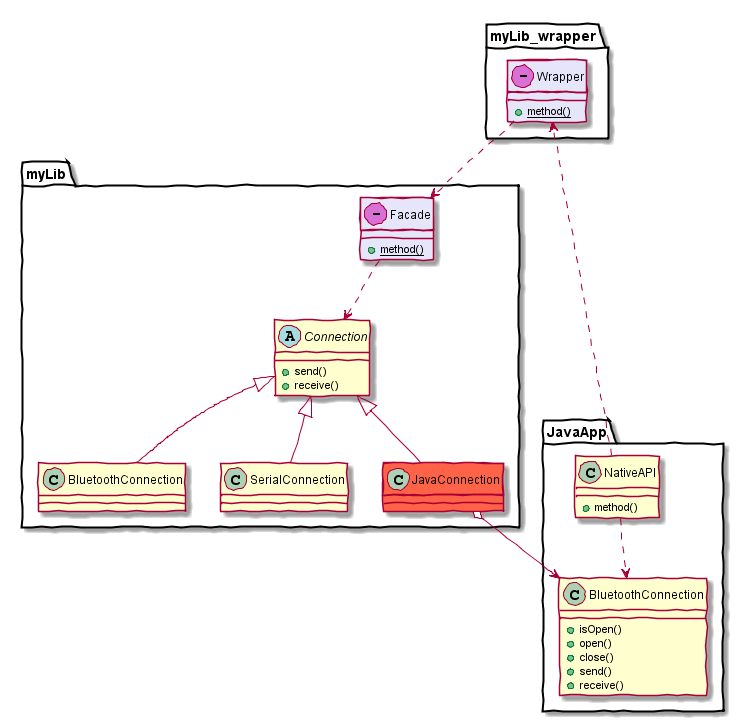
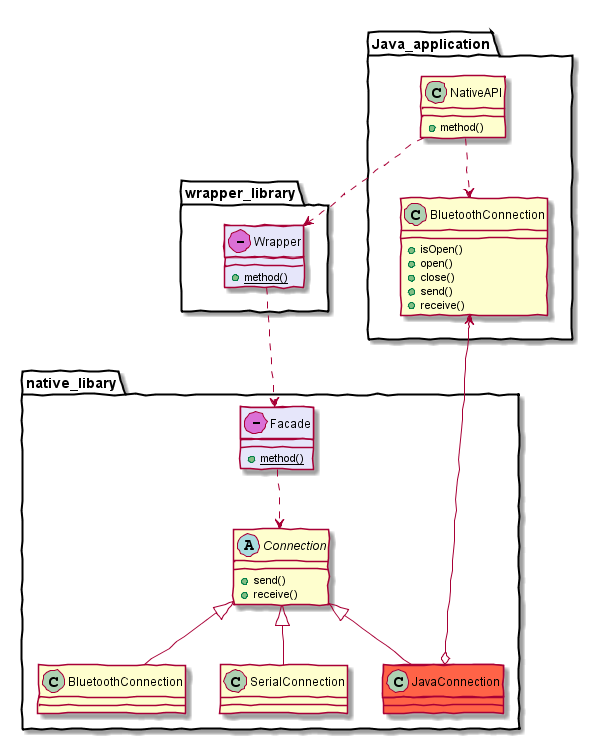
bluetooth-cpp-android: publication

diff --git a/cpp/bluetooth-cpp-android.html b/cpp/bluetooth-cpp-android.html
@@ -9,40 +9,40 @@
 <p class="page-path"><a href="../index.html#bluetooth-cpp-android">risorse</a> | bluetooth c++ e android</p>
 <h1>Bluetooth, C++ e Android</h1>
 <p>Nel corso degli anni ho sviluppato un applicativo C++/Win32 per il controllo di uno strumento di misura: il programma si connette allo strumento via Bluetooth e scarica i dati acquisiti attraverso un protocollo di comunicazione binario ideato dal costruttore del multimetro. I dati raccolti vengono presentati all'utente e archiviati per consentire di condurre analisi a posteriori di varia natura.</p>
-<p>Poco più di un anno fa ho effettuato uno studio di fattibilità circa il <em>porting</em> dell'applicativo su dispositivo mobile, nella fattispecie un terminale Android. Raccolgo qui qualche appunto circa le difficoltà incontrate nell'accedere al trasmettitore Bluetooth di un dispositivo Android da una libreria nativa C++.</p>
+<p>Poco più di un anno fa ho effettuato uno studio di fattibilità del <em>porting</em> dell'applicativo su dispositivo mobile, nella fattispecie un terminale Android. Raccolgo qui qualche appunto circa le difficoltà incontrate nell'accedere al trasmettitore Bluetooth di un dispositivo Android da una libreria nativa C++.</p>
 <h2>Premessa</h2>
-<p>Considerata la complessità dell'implementazione del protocollo di comunicazione, il presupposto iniziale è stato quello di riutilizzare il codice C++ di acquisizione dei dati, lasciando all'applicativo Java la responsabilità della loro visualizzazione e memorizzazione. La reimplementazione del protocollo di comunicazione in Java è stato escluso a priori.</p>
+<p>Considerata la complessità dell'implementazione del protocollo di comunicazione, ho scelto di riutilizzare il codice C++ di acquisizione dei dati, lasciando all'applicativo Java la responsabilità della loro visualizzazione e memorizzazione. La reimplementazione del protocollo di comunicazione in Java è stata esclusa a priori.</p>
 <h2>Interfaccia Java/C++</h2>
-<p>Ho prima di tutto riorganizzato il codice C++ di comunicazione ed elaborazione dei dati in una libreria dinamica <span class="library">myLib</span>, che successivamente ho portato in ambiente Linux.</p>
+<p>Ho prima di tutto riorganizzato il codice C++ di comunicazione ed elaborazione dei dati in una libreria dinamica che successivamente ho portato in ambiente Linux.</p>
 <p class="note">Il porting del codice C++ da Windows a Linux è stata un'esperienza particolarmente istruttiva. Per quanto pensassi di aver sviluppato codice tutto sommato indipendente dalla piattaforma utilizzata (Win32), l'operazione ha richiesto un discreto numero di interventi correttivi. Altrettanto formativo è stato il sottoporre lo stesso sorgente a compilatori diversi (VC su Windows, GCC/Clang su Linux): le sorprese non sono mancate!</p>
 <p>In seconda istanza ho definito un'interfaccia C per agevolare l'accesso alle funzionalità implementate dalla libreria <em>nativa</em> (l'originale, implementata in C/C++); per comodità ho scelto di utilizzare i tipi primitivi del linguaggio C come parametri di ingresso/uscita, optando invece per l'utilizzo di stringhe JSON come valore di ritorno:</p>
 <pre class="code">
 extern "C"
 const char* method(int value);
 </pre>
-<p class="illustration">Esempio di API C esposta dalla libreria nativa <span class="library">myLib</span></p>
+<p class="illustration">Esempio di API C esposta dalla libreria nativa</p>
 <p>L'accesso all'API nativa da parte dell'applicativo Java avviene attraverso una classe dedicata:</p>
 <pre class="code">
 public class NativeAPI {
   static {
-    System.loadLibrary("myLib_wrapper");
+    System.loadLibrary("LIB-NAME_wrapper");
   }
   public native String method(int aValue);
   ...
 }
 </pre>
-<p>Come si può dedurre dal frammento di codice, l'applicazione Java accede alla libreria nativa attraverso una libreria ausiliaria, denominata <span class="library">myLib_wrapper</span>, che si occupa di effettuare il <em>marshalling</em> dei parametri di ingresso e del valore di ritorno, oltre ovviamente dell'invocazione del metodo nativo:</p>
+<p>Come si può dedurre dal frammento di codice, l'applicazione Java accede alla libreria nativa attraverso una libreria ausiliaria, denominata <span class="library">*_wrapper</span>, che si occupa di effettuare il <em>marshalling</em> dei parametri di ingresso e del valore di ritorno, oltre ovviamente dell'invocazione del metodo nativo:</p>
 <pre class="code">
 extern "C"
-JNIEXPORT jstring JNICALL Java_xx_company_product_MyLib_method(
+JNIEXPORT jstring JNICALL Java_xx_company_product_LIB-NAME_method(
   JNIEnv* env, jobject thiz, jint value) {
   return env->NewStringUTF(method(value));
 }
 </pre>
 <p class="illustration">Esempio di <em>wrapping</em> dell'API nativa <span class="code">method</span> &mdash; notare la decorazione del metodo</p>
 <h2>Accesso al Bluetooth</h2>
-<p>La compilazione della libreria nativa <span class="library">myLib</span> con l'NDK per Android non va a buon fine, perché il Bluetooth su quella piattaforma non è (ancora?) disponibile &mdash; cfr. <a href="https://developer.android.com/ndk/guides/stable_apis.html">Android NDK Native APIs</a>. Il problema è noto, e il suggerimento più comune è quello di fornire alla libreria nativa un accesso al Bluetooth attraverso un oggetto Java.</p>
-<p>Fortunatamente il codice C++ originale già astraeva dalla tipologia di connessione: il modulo che implementa il protocollo di comunicazione infatti, dovendo supportare la doppia modalità di connessione Bluetooth/seriale, già basava il suo funzionamento su una classe astratta denominata <span class="code">Connection</span>. Estenderlo per supportare un terzo tipo di connessione non avrebbe dovuto rivelarsi troppo difficile:</p>
+<p>La compilazione della libreria nativa con l'NDK per Android non va a buon fine, perché il Bluetooth su quella piattaforma non è (ancora?) disponibile &mdash; cfr. <a href="https://developer.android.com/ndk/guides/stable_apis.html">Android NDK Native APIs</a>. Il problema è noto, e il suggerimento più comune è quello di fornire alla libreria nativa un accesso al Bluetooth attraverso un oggetto Java.</p>
+<p>Fortunatamente il codice C++ originale già astrae dalla tipologia di connessione: il modulo che implementa il protocollo di comunicazione infatti, dovendo supportare la doppia modalità di connessione Bluetooth/seriale (la seconda utilizzata come backup della prima nelle sessioni di debug del firmware), fa uso di una classe astratta <span class="code">Connection</span>. Estenderlo per supportare un terzo tipo di connessione è stato così relativamente semplice:</p>
 <pre class="code">
 class Connection {
 public:
@@ -75,17 +75,17 @@ public class BluetoothConnection {
 <p class="illustration">La classe Java per l'accesso al Bluetooth</p>
 <p>Occorre a questo punto arricchire l'API Java/C++ per consentire all'applicativo di passare alla libreria nativa sottostante un'istanza di questa classe:</p>
 <pre class="code">
-// myLib
+// native library
 extern "C" {
   const char* method(int value);
   <strong>const char* initialize(JNIEnv* env, jobject connection);</strong>
 }
 </pre>
 <pre class="code">
-// Java
+// Java application
 public class NativeAPI {
   static {
-    System.loadLibrary("myLib_wrapper");
+    System.loadLibrary("LIB-NAME_wrapper");
   }
   public native String method(int aValue);
   <strong>public native String initialize(BluetoothConnection connection);</strong>
@@ -93,19 +93,19 @@ public class NativeAPI {
 }
 </pre>
 <pre class="code">
-// myLib_wrapper
+// native library wrapper
 extern "C" {
-  JNIEXPORT jstring JNICALL Java_xx_company_product_MyLib_method(
+  JNIEXPORT jstring JNICALL Java_xx_company_product_LIB-NAME_method(
     JNIEnv* env, jobject thiz, jint value) {
     return env->NewStringUTF(method(value));
   }
-  <strong>JNIEXPORT jstring JNICALL Java_xx_company_product_MyLib_initialize(
+  <strong>JNIEXPORT jstring JNICALL Java_xx_company_product_LIB-NAME_initialize(
     JNIEnv* env, jobject thiz, jobject connection) {
     return env->NewStringUTF(initialize(env, connection));
   }</strong>
 }
 </pre>
-<p>Resta da specializzare l'oggetto C++ <span class="code">Connection</span> fornendo un'implementazione basata sull'oggetto Java <span class="code">BluetoothConnection</span>:</p>
+<p>Resta da specializzare l'interfaccia C++ <span class="code">Connection</span> fornendone un'implementazione basata sull'oggetto Java <span class="code">BluetoothConnection</span>:</p>
 <pre class="code">
 <strong>class JavaConnection : public Connection {
   JNIEnv* env_;
@@ -130,13 +130,13 @@ extern "C" {
   }</strong>
 }
 </pre>
-<p class="note">Le implementazioni non sono mostrate nella loro completezza poiché tutto il codice sorgente sviluppato è sottoposto a vincoli di non divulgazione.</p>
+<p class="note">Le implementazioni non sono mostrate nella loro completezza poiché tutto il codice sorgente sviluppato è sottoposto ad accordi di non divulgazione.</p>
 <p>Il diagramma che segue illustra le classi e le interfacce fin qui descritte, con le rispettive dipendenze:</p>
 <a href="img/bluetooth-cpp-android/invoke-class-diagram.png">
 <img src="img/bluetooth-cpp-android/invoke-class-diagram.png" width="500"/>
 </a>
 <p class="illustration"><em>Class diagram</em> dell'implementazione (click sull'immagine per ingrandirla).</p>
-<p>Nel diagramma appaiono due oggetti fittizi di comodo: il primo, <span class="code">Facade</span>, rappresenta l'interfaccia C della libreria nativa <span class="library">myLib</span>, mentre il secondo, <span class="code">Wrapper</span>, raggruppa le funzioni di marshalling dei parametri contenute nella libreria ausiliaria <span class="library">myLib_wrapper</span>.</p>
+<p>Nel diagramma appaiono due oggetti fittizi di comodo: il primo, <span class="code">Facade</span>, rappresenta l'interfaccia C della libreria nativa, mentre il secondo, <span class="code">Wrapper</span>, raggruppa le funzioni di marshalling dei parametri contenute nella libreria <span class="library">LIB-NAME_wrapper</span>.</p>
 <h2>Sequenza di chiamate</h2>
 <p>L'utilizzo della libreria nativa si articola in tre fasi: il caricamento e l'inizializzazione della libreria, che comprende il passaggio di un'istanza della classe Java <span class="code">BluetoothConnection</span>, l'invocazione dei metodi necessari al raggiungimento dell'obiettivo prefissato, quindi lo scaricamento della libreria:</p>
 <pre class="code">
@@ -162,9 +162,9 @@ extern "C" {
 </a>
 <p class="illustration"><em>Sequence diagram</em> del tipico caso d'uso dell'API (click sull'immagine per ingrandirla).</p>
 <h3>Inizializzazione &ndash; &ldquo;Set up&rdquo;</h3>
-<p>La libreria nativa <span class="library">myLib</span> viene caricata in memoria dal <em>runtime</em> Java in corrispondenza del primo riferimento alla classe <span class="code">NativeAPI</span> (cfr. messaggi <span class="message">[4]</span>, <span class="message">[5]</span> e <span class="message">[6]</span>). L'inizializzazione della libreria avviene esplicitamente, con la chiamata <span class="code">initialize</span> del medesimo oggetto (<span class="message">[7]</span>), che causa l'esecuzione dell'omonimo metodo della libreria di marshalling (<span class="message">[8]</span>), il quale a sua volta chiama in causa la libreria nativa (<span class="message">[9]</span>). Il codice C++ riceve così un riferimento all'oggetto Java <span class="code">BluetoothConnection</span>, che viene immediatamente &ldquo;impacchettato&rdquo; all'interno di un oggetto C++ di tipo <span class="code">JavaConnection</span> (<span class="message">[10]</span>). Con l'occasione, la libreria nativa apre subito il canale di comunicazione Bluetooth (<span class="message">[11]</span>), operazione che viene effettivamente condotta dall'oggetto <span class="code">BluetoothConnection</span> nel contesto dell'applicazione Java (<span class="message">[12]</span>).</p>
+<p>La libreria nativa viene caricata in memoria dal <em>runtime</em> Java in corrispondenza del primo riferimento alla classe <span class="code">NativeAPI</span> (cfr. messaggi <span class="message">[4]</span>, <span class="message">[5]</span> e <span class="message">[6]</span>). L'inizializzazione della libreria avviene esplicitamente, con la chiamata <span class="code">initialize</span> del medesimo oggetto (<span class="message">[7]</span>), che causa l'esecuzione dell'omonimo metodo della libreria di wrapping (<span class="message">[8]</span>), il quale a sua volta chiama in causa la libreria nativa (<span class="message">[9]</span>). Il codice C++ riceve così un riferimento all'oggetto Java <span class="code">BluetoothConnection</span>, che viene immediatamente &ldquo;impacchettato&rdquo; all'interno di un oggetto C++ di tipo <span class="code">JavaConnection</span> (<span class="message">[10]</span>). Con l'occasione, la libreria nativa apre subito il canale di comunicazione Bluetooth (<span class="message">[11]</span>), operazione che viene effettivamente condotta dall'oggetto <span class="code">BluetoothConnection</span> nel contesto dell'applicazione Java (<span class="message">[12]</span>).</p>
 <h3>Uso dell'API &ndash; &ldquo;Usage&rdquo;</h3>
-<p>La chiamata di un metodo nativo segue un tragitto analogo: il codice applicativo invoca un metodo dell'oggetto <span class="code">NativeAPI</span> (messaggio <span class="message">[19]</span>), che attiva il codice di marshalling ad esso associato (<span class="message">[20]</span>), il quale invoca l'omologo nativo (<span class="message">[21]</span>) che a sua volta sfrutta l'oggetto <span class="code">JavaConnection</span> per colloquiare con lo strumento remoto per mezzo dell'oggetto Java <span class="code">BluetoothConnection</span>  (messaggi <span class="message">[22]</span>, <span class="message">[23]</span> e <span class="message">[26]</span>, <span class="message">[27]</span>). Il risultato dell'operazione segue il percorso inverso: dalla libreria nativa il responso passa a quella di marshalling (<span class="message">[30]</span>), da questa all'oggetto <span class="code">NativeAPI</span> (<span class="message">[31]</span>), infine all'applicativo (<span class="message">[32]</span>).</p>
+<p>La chiamata di un metodo nativo segue un tragitto analogo: il codice applicativo invoca un metodo dell'oggetto <span class="code">NativeAPI</span> (messaggio <span class="message">[19]</span>), che attiva il codice di marshalling ad esso associato (<span class="message">[20]</span>), il quale invoca l'omologo nativo (<span class="message">[21]</span>) che a sua volta sfrutta l'oggetto <span class="code">JavaConnection</span> per colloquiare con lo strumento remoto per mezzo dell'oggetto Java <span class="code">BluetoothConnection</span>  (messaggi <span class="message">[22]</span>, <span class="message">[23]</span> e <span class="message">[26]</span>, <span class="message">[27]</span>). Il risultato dell'operazione segue il percorso inverso: dalla libreria nativa il responso passa a quella di wrapping (<span class="message">[30]</span>), da questa all'oggetto <span class="code">NativeAPI</span> (<span class="message">[31]</span>), infine all'applicativo (<span class="message">[32]</span>).</p>
 <h3>Scaricamento &ndash; &ldquo;Tear down&rdquo;</h3>
 <p>Quando i servizi della libreria non sono più richiesti, l'applicativo chiama il metodo <span class="code">finalize</span> dell'oggetto <span class="code">NativeAPI</span> (messaggio <span class="message">[34]</span>). La chiamata viene propagata alla libreria nativa (messaggi <span class="message">[35]</span> e <span class="message">[36]</span>) che dapprima provvede a chiudere la connessione (messaggi <span class="message">[37]</span> e <span class="message">[38]</span>), quindi a distruggere l'oggetto <span class="code">JavaConnection</span>. Le librerie verranno scaricate dalla memoria quando il <em>garbage collector</em> di Java reclamerà l'oggetto <span class="code">NativeAPI</span> (messaggi <span class="message">[45]</span>, &hellip; <span class="message">[49]</span>).</p>
 <h2>Callback</h2>
@@ -196,7 +196,7 @@ extern "C" {
 <pre class="code">
 public class NativeAPI {
   static {
-    System.loadLibrary("myLib_wrapper");
+    System.loadLibrary("LIB-NAME_wrapper");
   }
   public native String method(int aValue<strong>, Callback aCallback</strong>);
   public native String initialize(BluetoothConnection connection);
@@ -204,7 +204,7 @@ public class NativeAPI {
 }
 </pre>
 <p class="illustration">Estensione dell'API <span class="code">method</span>: ora prevede un'interfaccia di notifica aggiuntiva</p>
-<p>Serve ora collegare la callback C e la classe <span class="code">Callback</span>; il codice collante, per la sua natura, si trova a suo agio nella libreria di marshalling <span class="library">myLib_wrapper</span>. Si rendono necessari due componenti: un oggetto C++ che modella l'oggetto Java <span class="code">Callback</span> e una funzione di callback C da passare alla libreria nativa, e che si occuperà di inoltrare le notifiche ricevute dalla libreria alla <span class="code">Callback</span> Java. Il codice (semplificato!) del <em>wrapper</em> di <span class="code">Callback</span> è:</p>
+<p>Serve ora collegare la callback C e la classe <span class="code">Callback</span>; il codice collante, per la sua natura, si trova a suo agio nella libreria di wrapping. Si rendono necessari due componenti: un oggetto C++ che modella l'oggetto Java <span class="code">Callback</span> e una funzione di callback C da passare alla libreria nativa, e che si occuperà di inoltrare le notifiche ricevute dalla libreria alla <span class="code">Callback</span> Java. Il codice (semplificato!) del <em>wrapper</em> di <span class="code">Callback</span> è:</p>
 <pre class="code">
 <strong>class WrappedCallback {
   JNIEnv* env_;
@@ -242,7 +242,7 @@ extern &quot;C&quot; {
 extern "C" {
   ...
 
-  <strong>JNIEXPORT jstring JNICALL Java_xx_company_product_MyLib_method(
+  <strong>JNIEXPORT jstring JNICALL Java_xx_company_product_LIB-NAME_method(
     JNIEnv* env, jobject thiz, jint value, jobject callback) {
     WrappedCallback wrappedCallback(env, callback);
     return env-&gt;NewStringUTF(method(
@@ -293,11 +293,11 @@ extern &quot;C&quot; {
 <img src="img/bluetooth-cpp-android/invoke-callback-sequence-diagram.png" width="800"/>
 </a>
 <p class="illustration">Sequence diagram di una chiamata con callback (click sull'immagine per ingrandirla).</p>
-<p>Prima di effettuare la chiamata nativa, l'applicativo Java istanzia l'oggetto <span class="code">Callback</span> (messaggio <span class="message">[2]</span>); prosegue quindi all'attivazione del metodo <span class="code">method</span> della classe <span class="code">NativeAPI</span> (<span class="message">[3]</span>), cui passa un riferimento all'oggetto <span class="code">Callback</span> appena creato. La chiamata viene inoltrata alla libreria di wrapping, che riceve il riferimento e lo deposita all'interno di un oggetto <span class="code">WrappedCallback</span> (<span class="message">[5]</span>).</p>
-<p>A questo punto viene invocato il metodo nativo (<span class="message">[6]</span>), cui viene passata la callback ausiliaria &ndash; <span class="code">wrapper_callback</span> &ndash; propria della libreria di wrapping. Si può presupporre che il codice nativo effettuerà un certo numero di comunicazioni con lo strumento remoto (messaggi <span class="message">[7]</span>, &hellip; <span class="message">[10]</span>), e di tanto in tanto chiamerà la callback locale (<span class="message">[11]</span>). Per tutta risposta, questa attiverà l'oggetto <span class="code">WrappedCallback</span> passato in <span class="code">param</span> con i valori ricevuti dalla libreria nativa (<span class="message">[12]</span>). I medesimi valori saranno quindi inoltrati alla callback Java (<span class="message">[13]</span>), ed il valore di ritorno ottenuto sarà ricondotto alla liberia nativa seguendo il percorso inverso (messaggi <span class="message">[14]</span>, <span class="message">[15]</span> e <span class="message">[16]</span>).</p>
-<h2>Garbage Collection</h2>
-<h3>Riferiementi e indirizzi di memoria</h3>
-<p>A differenza di quanto accade in C++, gli oggetti Java non occupano una posizione fissa in memoria: la <em>garbage collection</em> infatti, per determinare quali di questi possano essere deallocati, li sposta. Questo vuol dire che il riferimento all'oggetto Java <span class="code">BluetoothConnection</span> memorizzato all'interno dell'<em>envelope</em> C++ <span class="code">JavaConnection</span> potrebbe diventare invalido. È quindi indispensabile indicare a runtime Java che l'oggetto Java <span class="code">BluetoothConnection</span> deve essere lasciato al suo posto; un modo per farlo è di acquisire da C++ un riferimento <em>globale</em> all'oggetto Java (cfr. <a href="http://docs.oracle.com/javase/7/docs/technotes/guides/jni/spec/functions.html#weak">Weak Global References</a> nella documentazione ufficiale Oracle):</p>
+<p>Prima di effettuare la chiamata nativa, l'applicativo Java istanzia l'oggetto <span class="code">Callback</span> (messaggio <span class="message">[2]</span>); prosegue quindi all'attivazione del metodo <span class="code">method</span> della classe <span class="code">NativeAPI</span> (<span class="message">[3]</span>), cui passa un riferimento all'oggetto <span class="code">Callback</span> appena creato. La chiamata viene inoltrata alla libreria di wrapping, che riceve il riferimento e lo memorizza all'interno di un oggetto <span class="code">WrappedCallback</span> (<span class="message">[5]</span>).</p>
+<p>A questo punto viene invocato il metodo nativo (<span class="message">[6]</span>), cui viene passato un puntatore a <span class="code">wrapper_callback</span>, la callback ausiliaria propria della libreria di wrapping. Si può presupporre che il codice nativo effettuerà un certo numero di comunicazioni con lo strumento remoto (messaggi <span class="message">[7]</span>, &hellip; <span class="message">[10]</span>), e di tanto in tanto chiamerà la callback locale (<span class="message">[11]</span>). Per tutta risposta, questa attiverà l'oggetto <span class="code">WrappedCallback</span> passato in <span class="code">param</span> con i valori ricevuti dalla libreria nativa (<span class="message">[12]</span>). I medesimi valori saranno quindi inoltrati alla callback Java (<span class="message">[13]</span>), ed il valore di ritorno ottenuto sarà ricondotto alla liberia nativa seguendo il percorso inverso (messaggi <span class="message">[14]</span>, <span class="message">[15]</span> e <span class="message">[16]</span>).</p>
+<h2>Garbage Collection e C++</h2>
+<h3>Riferimenti e indirizzi di memoria</h3>
+<p>A differenza di quanto accade in C++, gli oggetti Java non occupano una posizione fissa in memoria: la <em>garbage collection</em> infatti, per determinare quali di questi possano essere deallocati, li sposta. Questo vuol dire che il riferimento all'oggetto Java <span class="code">BluetoothConnection</span> in <span class="code">JavaConnection</span> potrebbe diventare invalido. È quindi indispensabile chiedere al runtime Java di lasciare l'oggetto <span class="code">BluetoothConnection</span> al suo posto; un modo per farlo è di acquisire un riferimento <em>globale</em> (cfr. <a href="http://docs.oracle.com/javase/7/docs/technotes/guides/jni/spec/functions.html#weak">Weak Global References</a> nella documentazione ufficiale Oracle):</p>
 <pre class="code">
 JavaConnection::JavaConnection(JNIEnv* env, jobject connection)
  : env_(env), ... {
@@ -313,36 +313,28 @@ JavaConnection::~JavaConnection() {
 }
 </pre>
 <p class="illustration">Acquisizione di un riferimento globale all'istanza di <span class="code">BluetoothConnection</span></p>
-<h3>Riferimenti locali</h3>
-<p>Il runtime Java può gestire solo un numero limitato di riferimenti ad oggetti locali (cfr. <a href="http://docs.oracle.com/javase/8/docs/technotes/guides/jni/spec/design.html#referencing_java_objects">Referencing Java Objects</a> nella documentazione ufficiale Oracle); se il codice nativo ne istanzia troppi, senza mai dare il tempo al runtime di scaricare quelli non più referenziati, si rischia il blocco dell'applicazione con errore &laquo;<span class="code">ReferenceTable overflow (max=512)</span>&raquo; o equivalente. Per scongiurare il problema, ricordarsi di <strong>rilasciare esplicitamente ogni oggetto non più necessario</strong>:</p>
+<h3>Limitazione del numero di riferimenti locali</h3>
+<p>Il runtime Java può gestire solo un numero limitato di riferimenti ad oggetti locali (cfr. <a href="http://docs.oracle.com/javase/8/docs/technotes/guides/jni/spec/design.html#referencing_java_objects">Referencing Java Objects</a> nella documentazione ufficiale Oracle); se il codice nativo ne istanzia troppi, senza mai dare il tempo al runtime di scaricare quelli non più referenziati, si rischia il blocco dell'applicazione con errore &laquo;<span class="code">ReferenceTable overflow (max=512)</span>&raquo; o equivalente. Per scongiurare il problema, bisogna <strong>rilasciare esplicitamente ogni oggetto non più necessario</strong>:</p>
 <pre class="code">
 int JavaConnection::send(const char* data, int count) {
   jbyteArray buffer = env_-&gt;NewByteArray(count);
   auto local = std::vector&lt;jbyte&gt;(count);
-  for (int i = 0; i &lt; count; ++i)
-    local[i] = data[i];
+  ...
+
   env_-&gt;SetByteArrayRegion(buffer, 0, count, local.data());
   jint sent = env_-&gt;CallIntMethod(connection_, send_, buffer);
+
   <strong>// release java objects as soon as possible
   env_-&gt;DeleteLocalRef(buffer);</strong>
+  ...
+
   return static_cast&lt;int&gt;(sent);
 }
-
-int JavaConnection::receive(char* data, int expected) {
-  jbyteArray buffer =
-    static_cast&lt;jbyteArray&gt;(
-      env_-&gt;CallObjectMethod(connection_, receive_, expected));
-  jsize length = env_-&gt;GetArrayLength(buffer);
-  void* local = env_-&gt;GetPrimitiveArrayCritical(buffer, 0);
-  memcpy(data, local, length);
-  env_-&gt;ReleasePrimitiveArrayCritical(buffer, local, 0);
-  <strong>// release java objects as soon as possible
-  env_-&gt;DeleteLocalRef(buffer);</strong>
-  return static_cast&lt;int&gt;(length);
-}
 </pre>
+<p class="illustration">Esempio di rilascio esplicito di un oggetto locale</p>
+<p>Il codice sopra riportato mostra una possibile implementazione del codice di wrapping della funzione <span class="code">send</span>. Come si può notare, l'invio richiede l'allocazione temporanea di un oggetto di tipo <span class="code">jbyteArray</span>. Poiché il codice nativo richiama questo metodo ciclicamente fino all'esaurimento dei dati da trasmettere, non è possibile determinare a priori quante volte il metodo verrà invocato prima di tornare il controllo all'applicativo Java (nella fattispecie, svariate centinaia!). Per questa ragione la variabile <span class="code">buffer</span> viene rilasciata esplicitamente appena possibile.</p>
 <h2>Considerazioni finali</h2>
-<p>Non ho affrontato la questione del <em>build</em> della libreria nativa e di quella di marshalling, che è stato uno scoglio aggiuntivo da superare. Le difficoltà principali sono emerse dalle singolari peculiarità dei vari runtime C distribuiti con l'NDK:</p>
+<p>Non ho affrontato la questione del <em>build</em> della libreria nativa e di quella di wrapping, che è stato uno scoglio aggiuntivo da superare. Le difficoltà principali sono emerse dalle singolari peculiarità dei vari runtime C distribuiti con l'NDK:</p>
 <ul>
 <li>nessuno di essi supporta lo standard C++11 in maniera soddisfacente; alcuni di essi (vedere ad esempio <a href="http://stackoverflow.com/questions/33390658/c-regex-not-working-in-android-nd">C++ regex not working in Android NDK</a>) contengono delle implementazioni bacate che, sebbene compilino correttamente, causano dei <em>segmentation fault</em> in esecuzione;</li>
 <li>il runtime <span class="library">libgnustl</span> è distribuito con una licenza GPLv3 modificata tale per cui non è linkabile staticamente in progetti proprietari;</li>
@@ -351,6 +343,6 @@ int JavaConnection::receive(char* data, int expected) {
 <li><span class="code">libgnustl</span> non supporta un discreto numero di funzioni di utilità della libreria standard, come ad esempio <span class="code">std::to_string</span>, <span class="code">std::stoi</span>, &hellip; (vedere ad esempio <a href="http://stackoverflow.com/questions/22774009/android-ndk-stdto-string-support">Android ndk std::to_string support</a> e <a href="http://stackoverflow.com/questions/17950814/how-to-use-stdstoul-and-stdstoull-in-android/18124627#18124627">How to use std::stoul and std::stoull in Android?</a>).</li>
 </ul>
 <p>Ho risolto gran parte dei problemi abbandonando l'NDK ufficiale a favore di <a href="https://www.crystax.net/">Crystax</a> che, a partire dalla revisione #799 ha il vantaggio di supportare <a href="https://cmake.org/">CMake</a> (cfr. <a href="https://github.com/crystax/android-samples-cmake">Simple CMake-enabled example working with CrystaX NDK</a>, il sistema di build che già usavo per la compilazione della libreria nativa su Windows e Linux.</p>
-<p class="modification-notice">Pagina modificata il 01/05/2017</p>
+<p class="modification-notice">Pagina modificata il 02/05/2017</p>
 </body>
 </html>

diff --git a/index.html b/index.html
@@ -9,15 +9,15 @@
 <a href="https://it.linkedin.com/pub/gianfranco-zuliani/5/31b/948" style="text-decoration:none;"><span style="font: 80%; color:#0783B6;"><img src="linkedin.png" width="32" height="32" alt="Il mio profilo LinkedIn" style="vertical-align:middle" border="0">&nbsp;Il mio profilo LinkedIn</span></a>
 <h2>Ultime attivit&agrave;</h2>
 <ul>
+	<li class="ref"><a href="#bluetooth-cpp-android">Bluetooth, C++ e Android</a> &ndash; 02/05/2017</li>
 	<li class="ref"><a href="#funny-code">funny code</a> in C++14 &ndash; 03/02/2017</li>
 	<li class="ref">analisi del programma <a href="#scacchi-1k">1K ZX Chess</a> &ndash; 27/01/2017</li>
 	<li class="ref"><a href="#arduino-mpu6050-oled">Accelerometro grafico</a> con Arduino &ndash; 02/01/2017</li>
-	<li class="ref"><a href="#arduino-mpu6050">Accelerometro con Arduino</a> &ndash; 27/12/2016</li>
-	<li class="ref"><a href="#scite-arduino">Sviluppare per Arduino con SciTE</a> &ndash; 05/12/2016</li>
 </ul>
 <h2>Appunti</h2>
 <h3>C++</h3>
 <ul>
+	<li><a name="bluetooth-cpp-android"></a><a href="cpp/bluetooth-cpp-android.html">Bluetooth, C++ e Android</a> (2017)</li>
 	<li><a name="funny-code"></a><a href="cpp/funny-code.html">funny code</a> in C++14 (2017)</li>
 	<li><a name="bowling-kata"></a><a href="cpp/bowling-kata.html">bowling kata</a> in C++ (2016)</li>
 	<li><a name="bitfield-enum"></a><a href="cpp/bitfield-enum.html">campi di bit</a> in C++11/14 (2016)</li>
